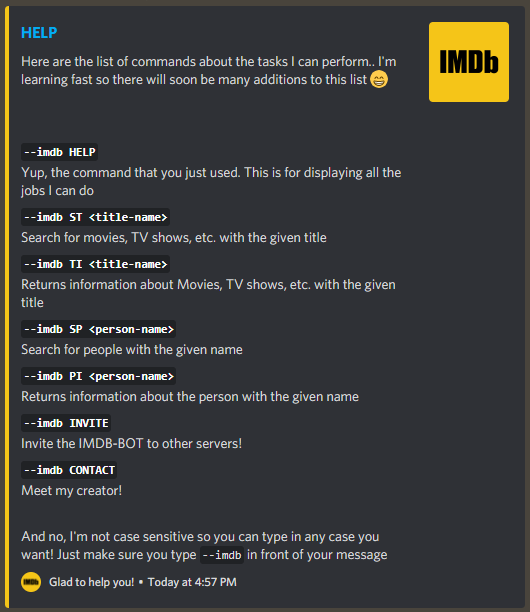
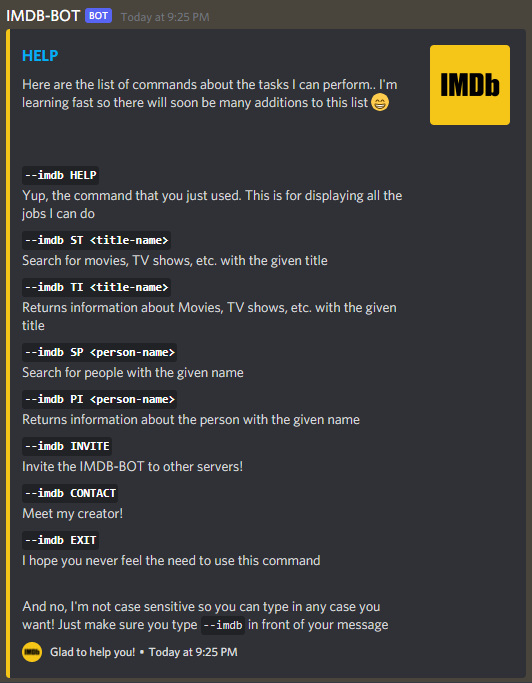
exit server command

Changed region(s): [[0.0, 0.0, 0.9962, 0.9935], [0.483, 0.2794, 0.7547, 0.3105], [0.4528, 0.2484, 0.483, 0.2794]]

diff --git a/src/exit.js b/src/exit.js
@@ -1,0 +1,28 @@
+import { MessageEmbed, Permissions } from "discord.js"
+import { IMDB_LOGO, BOT_INVITE_LINK } from "../config.js"
+
+export const exitServer = (msg) => {
+    if (msg.member.permissions.has(Permissions.FLAGS.KICK_MEMBERS)){
+        const newEmbed = new MessageEmbed()
+            .setColor("#f5c518")
+            .setTitle("See you soon!")
+            .setURL(BOT_INVITE_LINK)
+            .setThumbnail(IMDB_LOGO)
+            .setDescription(`I had a great time with you guys! :heart:\nHope to be invited back in **${msg.guild.name}** using the above link..`)
+            .setTimestamp()
+            .setFooter("I'll miss your company!", IMDB_LOGO)
+
+        msg.reply({
+            embeds: [newEmbed]
+        })
+
+        try {
+            msg.guild.leave()
+        } catch (error){
+            msg.reply(`Uh oh! There was an error leaving **${msg.guild.name}**! (Totally non-intentional) Please try again :person_bowing:`)
+            console.log(error)
+        }
+    } else {
+        msg.reply("Sorry! You don't have permission to kick members!")
+    }
+}

diff --git a/app.js b/app.js
@@ -6,6 +6,7 @@ import { PREFIX, BOT_TOKEN, MOVIE_URL } from "./config.js"
 import { showHelp } from "./src/showHelp.js"
 import { contactInfo } from "./src/contact.js"
 import { sendInvite, sendHello } from "./src/invite.js"
+import { exitServer } from "./src/exit.js"
 import { sendMoviesData } from "./src/movieSearch.js"
 import { sendMovieInfo } from "./src/movieInfo.js"
 import { sendPersonsData } from "./src/actorSearch.js"
@@ -78,6 +79,8 @@ client.on("message", async (msg) => {
                 contactInfo(msg)
             } else if (CMD_NAME == "INVITE"){
                 sendInvite(msg)
+            } else if (CMD_NAME == "EXIT"){
+                exitServer(msg)
             } else if (CMD_NAME == "ST"){
                 if (args.length == 0){
                     msg.reply(`Please write a name after **${PREFIX} ${CMD_NAME}**`)

diff --git a/src/showHelp.js b/src/showHelp.js
@@ -18,6 +18,7 @@ export const showHelp = (msg) => {
             { name: "`--imdb PI <person-name>`", value: "Returns information about the person with the given name" },
             { name: "`--imdb INVITE`", value: "Invite the IMDB-BOT to other servers!" },
             { name: "`--imdb CONTACT`", value: "Meet my creator!" },
+            { name: "`--imdb EXIT`", value: "I hope you never feel the need to use this command" },
             { name: "\u200B", value: "And no, I'm not case sensitive so you can type in any case you want! Just make sure you type `--imdb` in front of your message" }
         )
             
